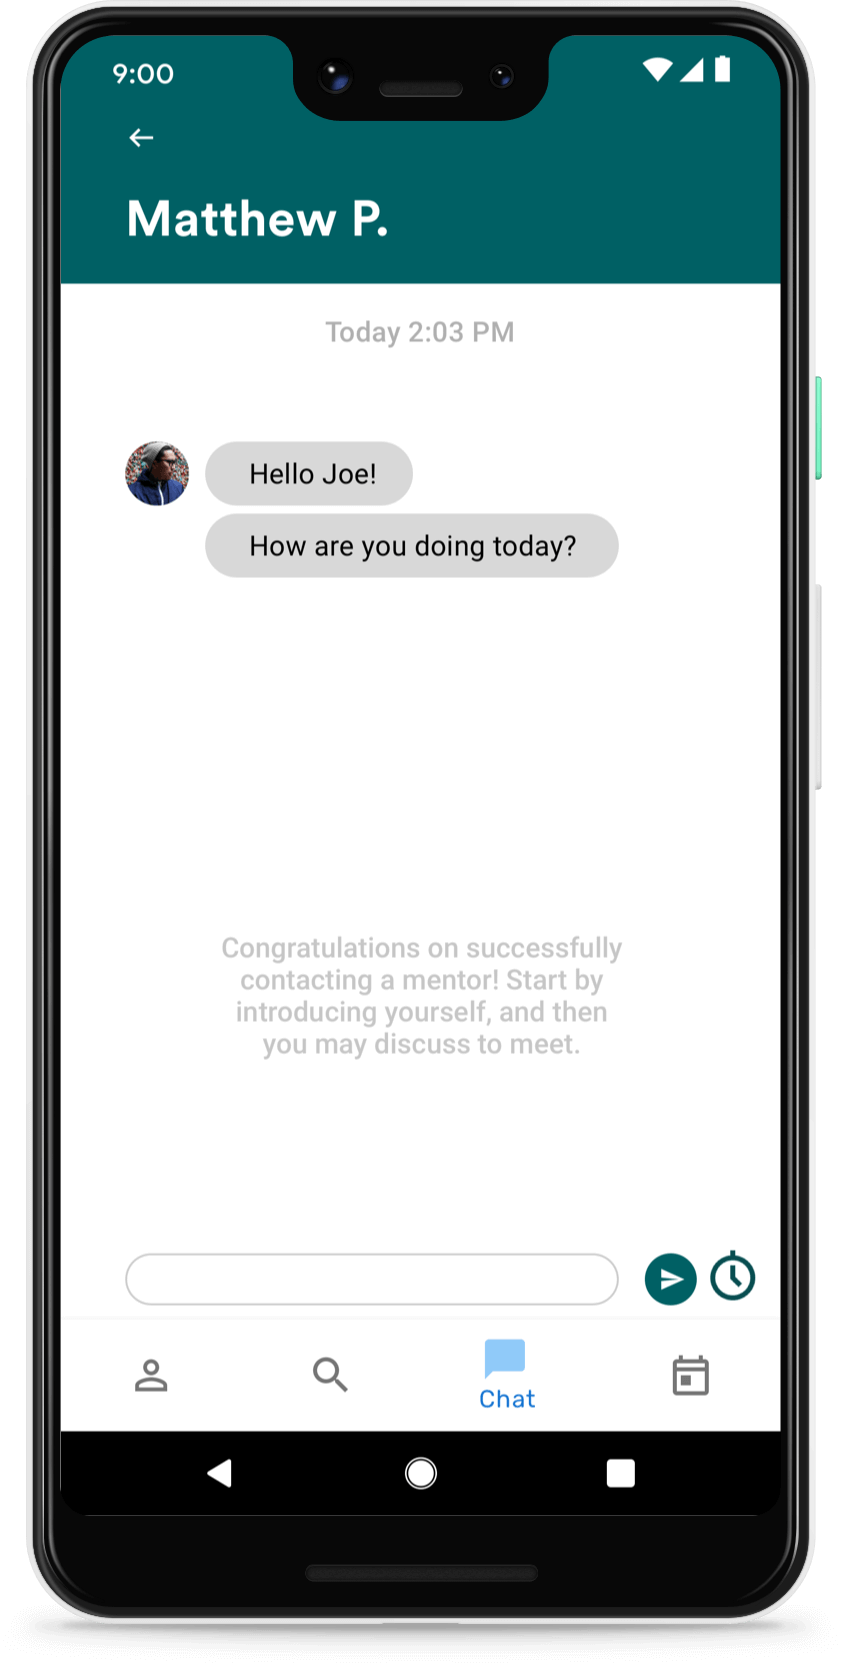
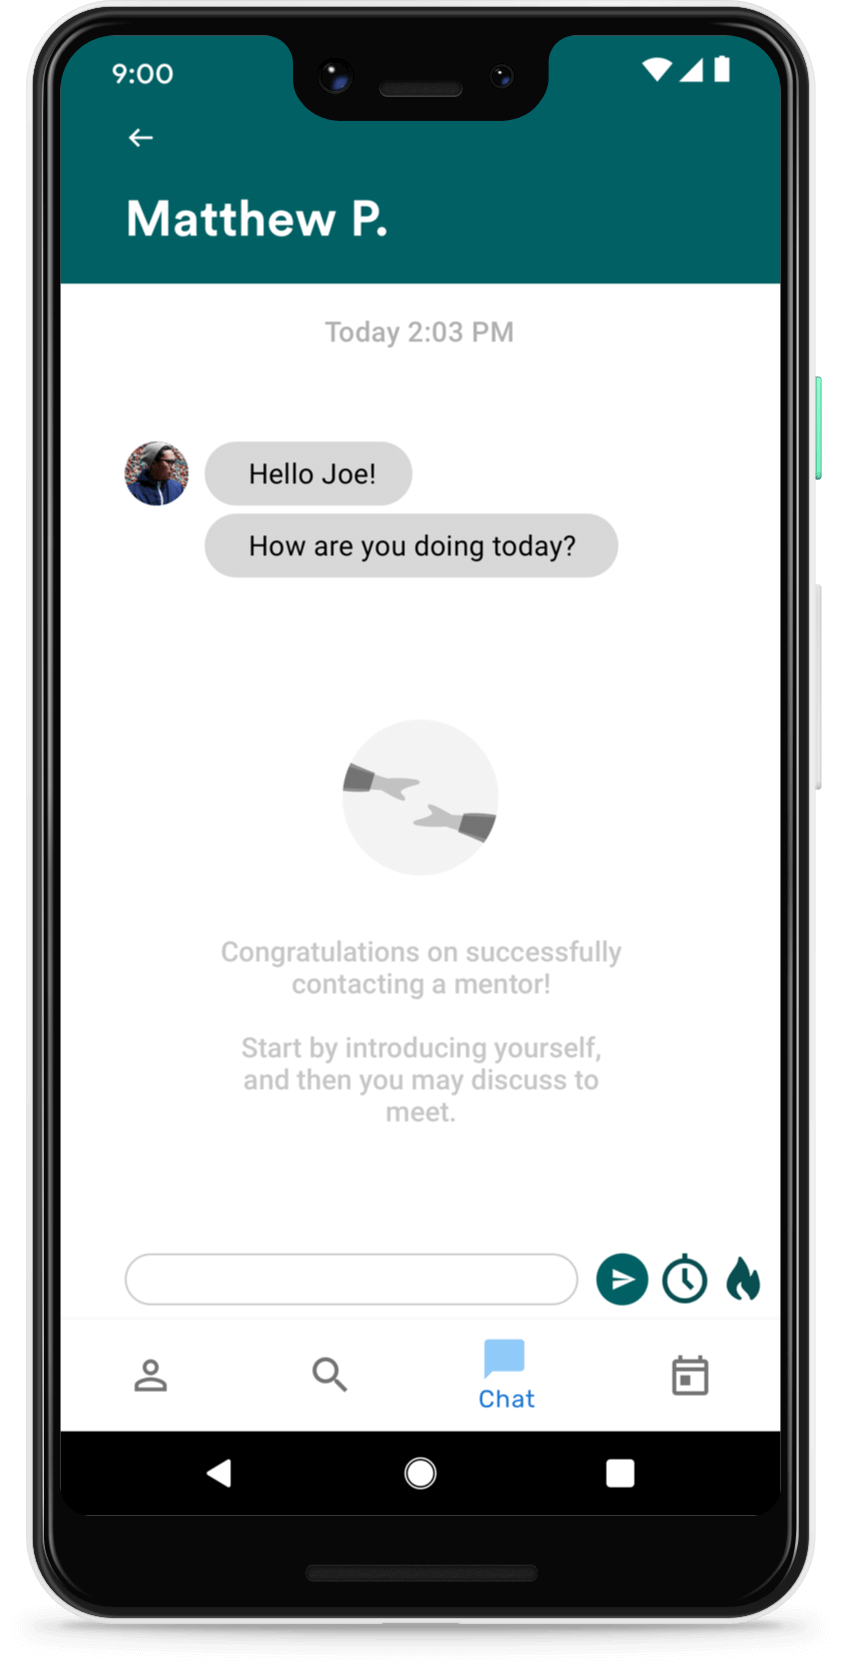
stuff added

diff --git a/portfolio/src/pages/project/midojo/index.html b/portfolio/src/pages/project/midojo/index.html
@@ -77,8 +77,8 @@ prev_name: Water Connection Transition
                 </div>
                 
                 <div class="large-4 large-offset-1 cell mockup-description align-self-middle">
-                    <p class="read bold">Home Page</p>
-                    <p class="read">The mentor and mentee can use the same app to get on MiDojo. The home screen has the standard login and signup options.</p>
+                    <p class="read bold">Welcome Page</p>
+                    <p class="read">The mentor and mentee can use the same app to get on MiDojo. The welcome screen has a standard login and signup options.</p>
                 </div>
                 
                 
@@ -104,7 +104,7 @@ prev_name: Water Connection Transition
                 
                 <div class="large-4 large-offset-1 cell mockup-description align-self-middle">
                     <p class="read bold">Select Role</p>
-                    <p class="read">User is asked if they want to mentor or look for mentors. The app experience from here will be different for the mentor and the mentee.</p>
+                    <p class="read">The user chooses if they want to mentor or look for mentors. The app experience from here will be different for the mentor and the mentee.</p>
                 </div>
                 
                 
@@ -133,8 +133,8 @@ prev_name: Water Connection Transition
                     
                     
                     <div class="large-4 large-offset-2 cell mockup-description align-self-middle">
-                        <p class="read bold">Time Commitment</p>
-                        <p class="read">Mentors can assist more than one mentee, but that would require a greater time commitment. Mentors can set aside a certain number of hours per week to assist their mentees. This would guarantee a good experience for both mentor and mentee.</p>
+                        <p class="read bold">Set your time commitment. More time ~ more mentees</p>
+                        <p class="read">Mentors can assist more than one mentee, but that would require a greater time commitment. Mentors can set aside a certain number of hours per week to engage their mentees. This would guarantee a good experience for both mentor and mentee.</p>
                     </div>
                     
                     <div class="large-3 large-offset-1 cell">
@@ -148,14 +148,14 @@ prev_name: Water Connection Transition
                     </div>
                     
                     <div class="large-4 large-offset-1 cell mockup-description align-self-middle">
-                        <p class="read bold">Ready to start helping</p>
+                        <p class="read bold">Ready to start helping! Spread the word</p>
                         <p class="read">An empty state screen tells the mentor that the setup has been done successfully. Mentorship is also a popular achievement to display on professional networks. This achievement can be shared on LinkedIn and Twitter directly from the app.</p>
                     </div>     
                     
                     
                     
                     <div class="large-4 large-offset-1 cell mockup-description align-self-middle">
-                        <p class="read bold">Relavent Information</p>
+                        <p class="read bold">Smart way to select your mentees</p>
                         <p class="read">Mentor receives requests from the mentees in the app inbox.</p>
                         <p class="read">Research revealed that mentors shouldn't be seen as long term friends/guru. Mentors are more willing to help, if they have a good idea of what they're getting into. The mentees are prompted to draft a clear request, and the same is highlighted to the mentor.</p>
                     </div>
@@ -166,6 +166,21 @@ prev_name: Water Connection Transition
                     <div class="large-3 cell">
                         <img src="{{root}}assets/img/midojo/8_mentee_profile.png" class="vert-margin-image">
                     </div> 
+                    
+                    
+                    <div class="large-3 large-offset-1 cell">
+                        <img src="{{root}}assets/img/midojo/17_mentor_chat.png" class="vert-margin-image">
+                    </div> 
+                    <div class="large-3 cell">
+                        <img src="{{root}}assets/img/midojo/16_appreciation.png" class="vert-margin-image">
+                    </div> 
+                    
+                    <div class="large-4 large-offset-1 cell mockup-description align-self-middle">
+                        <p class="read bold">Start helping & get "hooked"</p>
+                        <p class="read">Mentors get the pleasure of earning "fans" on the way. The mentor - mentee realtionship has the potential of forming a habit. Trigger (notification), Action (chat response), Variable Reward (mentee feedback in forms of personalized appreciation cards), Investement (selection process).</p>
+                    </div>
+                    
+                    
                 </div>
             </div>
         </div>
@@ -192,8 +207,8 @@ prev_name: Water Connection Transition
             
             
             <div class="large-4 large-offset-2 cell mockup-description align-self-middle">
-                <p class="read bold">Relavent Results. Quick!</p>
-                <p class="read">Mentorship can exist to further ones' career, fitness or hobbies. MiDojo encompasses all such mentors. A filter option then allows the mentee to focus on the tasks they need assistance with at the moment, and choose the relavent mentors. The filter is used to narrow the search result to a certain extent. It is not designed to be very specific, as that can lead to missed opportunities.</p>
+                <p class="read bold">Relevant Results. Quick!</p>
+                <p class="read">Mentorship can exist to further ones' career, fitness or hobbies. MiDojo encompasses all such mentors. A filter option then allows the mentee to focus on the tasks they need assistance with at the moment, and choose the relevant mentors. The filter is used to narrow the search result to a certain extent. It is not designed to be very specific, as that can lead to missed opportunities.</p>
             </div>
             
             <div class="large-3 large-offset-1 cell">
@@ -207,14 +222,14 @@ prev_name: Water Connection Transition
             
             <div class="large-4 large-offset-1 cell mockup-description align-self-middle">
                 <p class="read bold">Discover the future you</p>
-                <p class="read">Mentor profiles allows mentees to find mentors with similar interests. The mentor profile is a snapshot of their personality. The mentor can be contacted from the </p>
+                <p class="read">Mentor profiles allow mentees to find mentors with similar interests. The mentor profile is a snapshot of their personality. The mentor can be contacted from the </p>
             </div>
             
             
             
             <div class="large-4 large-offset-2 cell mockup-description align-self-middle">
                 <p class="read bold">Personalized requests</p>
-                <p class="read">Mentors can be picky about whom they would want to work with. Mentors love it when the mentees can reap benefits from their advice. To help mentees aprroach the mentors effectively, a set of questions are listed to gain the mentor's trust. The level of effort introduced here, makes sure that mentees do not approach many mentors at once.</p>
+                <p class="read">Mentors can be picky about whom they would want to work with. Mentors love it when the mentees can reap benefits from their advice. To help mentees approach the mentors effectively, a set of questions are listed to gain the mentor's trust. The level of effort introduced here, makes sure that mentees do not approach many mentors at once.</p>
             </div>
             
             <div class="large-3 large-offset-1 cell">
@@ -232,11 +247,11 @@ prev_name: Water Connection Transition
             <div class="large-4 large-offset-1 cell mockup-description align-self-middle">
                 <p class="read bold">First Chat</p>
                 <p class="read">This is the first chat between two strangers! To make the first chat a bit comfortable, suggested topics are mentioned as help text. The two are prompted to introduce themselves, discuss their interests and plan a meeting.</p>
-                <p class="read">While it isn't technologically complex to suggest meeting place and meeting times based on GPS information and calendar data, it is technologically complex to measure people's intentions. If the mentee is highly motivated, they may travel great distance or make time to meet the mentor.</p>
+                <p class="read">While it isn't technologically complex to suggest a meeting place and meeting times based on GPS information and calendar data, it is technologically complex to measure people's intentions. If the mentee is highly motivated, they may travel a great distance or make time to meet the mentor.</p>
             </div>
             
             <div class="large-8 large-offset-2 cell">
-                <h2 class="name">The Research & The Rationale</h2>
+                <h2 class="name">The Research</h2>
             </div>
             
             <div class="large-offset-2 large-8 cell">
@@ -263,33 +278,164 @@ prev_name: Water Connection Transition
                 </figure>
             </div>
             <div class="large-4 cell">
-                    <figure class="article-image">
-                        <img src="{{root}}assets/img/midojo/notes4.png" class="">
-                    </figure>
-                </div>
-
+                <figure class="article-image">
+                    <img src="{{root}}assets/img/midojo/notes4.png" class="">
+                </figure>
+            </div>
+            
             <div class="large-offset-2 large-8 cell">
                 <p class="read bold">Primary Research</p>
-                <p class="read">To gain some first hand knowledge on this, I contacted one senior UX Designer and two junior designers. Some of the finding/interesting quotes:</p>
-
-                <p class="read">Mentor: A Chief Design Officer with 10+ years of experience</p>
-                <ul>
+                <p class="read">To gain some first-hand knowledge on this, I contacted one senior UX Designer and two junior designers. Some of the finding/interesting quotes:</p>
+            </div>
+            
+            
+            <div class="large-5 large-offset-1 cell">
+                <p class="read bold">Mentor: A Chief Design Officer with 10+ years of experience</p>
+                <ul class="small-points">
                     <li><p class="read">"It’s my way of giving back to the community. I remember my struggle when I was working as a visual designer."</p></li>
                     <li><p class="read">"Some companies have one or a few designers. Mentorship can help the individual grow in such cases."</p></li>
-                    <li><p class="read">"Many designers approached me via linkedIn for specific problems …. We contacted just over email."</p></li>
+                    <li><p class="read">"Many designers approached me via LinkedIn for specific problems …. We contacted just over email."</p></li>
                     <li><p class="read">".. have met people face to face also .."</p></li>
                     <li><p class="read">"my colleagues told me that they had worked for this amazing designer at xxx company, and I reached out to him via emails for some questions."</p></li>
                 </ul>
-
-                <p class="read">Mentee: A design student who met her mentor at her workplace</p>
-                <ul>
+            </div>
+            
+            <div class="large-5 cell">
+                <p class="read bold">Mentee: A design student who met her mentor at her workplace</p>
+                <ul class="small-points">    
                     <li><p class="read">"We had a formal mentorship program. But that was only on paper. All the interns interacted more with others."</p></li>
                     <li><p class="read">"My shared several good moments. We talked about work, our backgrounds, how goal oriented she was. How she prepared for design thinking workshops. …. She’s a giver, she’s willing to share experience …. She has a good impression of me."</p></li>
                     <li><p class="read">"I learnt a lot from her, looking at her hard work, her dedication, she was a role model"</p></li>
                     <li><p class="read">On being asked if they’re still in touch: “I’m always willing to keep in touch. But I worry that she’s too busy. She may think that I am interested in a job opportunity there.”</p></li>
                     <li><p class="read">On being asked what got the mentor interested in her: “My prof put in a good word. We also had the same education, so that got her interested.”</p></li>
                 </ul>
+            </div>
+            
+            <div class="large-8 large-offset-2 cell">
+                <h2 class="name">Key Findings</h2>
+            </div>
+            
+            <div class="large-offset-2 large-8 cell">
+                <p class="read bold">What drives a Mentor?</p>
+                <ul>
+                    <li><p class="read">"Do unto others as you would have them do unto you." Mentors need not be expert in their field, they can also be a few years senior to the mentee. It is possible that they might be seeking mentorship themselves. Mentorship then, is a way to give back to the community.</p></li>
+                    <li><p class="read">Mentors like being seen as stars or role models, and get some fan mail! It is a positive reinforcement of their knowledge.</p></li>
+                    <li><p class="read">When mentorship is not seen as a life-long commitment to coach someone, mentors are willing to help. It is seen as a simple act of kindness which gives personal gratification.</p></li>
+                </ul>
                 
+                <p class="read bold">What drives a Mentee?</p>
+                <p class="read">According to Maslow’s hierarchy of needs, self-actualization is a high form of motivation, where an individual strives to be the best, and achieve their full potential. The opinions of others don’t matter much. An ideal mentee has the following characteristics for a positive mentorship experience:</p>
+                <ul>
+                    <li><p class="read"> <span class="bold">Clear needs:</span> Has a good idea about their goals. They do not need complete a hand holding.</p></li>
+                    <li><p class="read"><span class="bold">Deliver consistently:</span> One way to show the mentor that they’re invested in the relationship is to show that their advice is taken seriously.</p></li>
+                    <li><p class="read"><span class="bold">Positive attitude:</span> Mentors appreciate when the mentee has a positive attitude towards the work they’re doing. The relationship might not be thick enough to share sorrows.</p></li>
+                </ul>
+            </div>
+            
+            <div class="large-8 large-offset-2 cell">
+                <h2 class="name">Synthesis</h2>
+            </div>
+            
+            <div class="large-offset-2 large-8 cell">
+                <p class="read">I used the following methods to gain a better understanding of the information I got from the research</p>
+                
+                <p class="read bold">From To table</p>
+                <p class="read">Helps formulate goals/requiremnts for the solution.</p>
+                
+                <table>
+                    <thead>
+                        <tr>
+                            <th>-</th>
+                            <th>From</th>
+                            <th>To</th>
+                            <th>Instrument</th>
+                        </tr>
+                    </thead>
+                    <tbody>
+                        <tr>
+                            <td>Discovery</td>
+                            <td>People meet mentors at events, or work settings.</td>
+                            <td>Seeking mentor can be structures and easier to allow wider range of people to use it.</td>
+                            <td>List possible mentors, mentees witd</td>
+                        </tr>
+                        <tr>
+                            <td>Time commitment</td>
+                            <td>Uncertain, long meetings.</td>
+                            <td>Meetings witd goals, agenda.</td>
+                            <td>Chart availability, schedule goals</td>
+                        </tr>
+                        <tr>
+                            <td>Confidence to ask for help</td>
+                            <td>Shame/fear when asking for help. Loneliness, confusion.</td>
+                            <td>Gain confidence by being in a community, where it is normal to ask for help.</td>
+                            <td>Use several instruments to normalize seeking help.</td>
+                        </tr>
+                        <tr>
+                            <td>Selecting mentors</td>
+                            <td>Searching on Linkedin for hours. tdey don’t have information regarding time availability etc.</td>
+                            <td>Structured data to fill, focused towards</td>
+                            <td>List useful meta data to find mentors.</td>
+                        </tr>
+                    </tbody>
+                </table>
+                
+                
+            </div>
+            
+            <div class="large-8 large-offset-2 cell">
+                <p class="read bold">Love letter & Breakup letter</p>
+                <p class="read">I wrote a love letter and a breakup letter to my application from the perspective of the mentor and mentee. This helped me prioritize the requiremnts.</p>
+            </div>
+            
+            <div class="large-4 cell large-offset-2">
+                
+                <figure class="article-image">
+                    <img src="{{root}}assets/img/midojo/ll1.png" class="">
+                </figure>
+            </div>
+            <div class="large-4 cell">
+                <figure class="article-image">
+                    <img src="{{root}}assets/img/midojo/ll2.png" class="">
+                </figure>
+            </div>
+            
+            <div class="large-8 large-offset-2 cell">
+                <h2 class="name">Before the mockups</h2>
+                <p class="read bold">Storyboarding</p>
+            </div>
+            
+            <div class="large-4 large-offset-2 cell">
+                <figure class="article-image">
+                    <img src="{{root}}assets/img/midojo/storyboard1.JPG" class="">
+                </figure>
+            </div>
+            <div class="large-4 cell">
+                <figure class="article-image">
+                    <img src="{{root}}assets/img/midojo/storyboard2.JPG"  class=""> 
+                </figure>
+            </div>
+            
+            <div class="large-8 large-offset-2 cell">
+                <p class="read bold">User Flows</p>
+            </div>
+            
+            <div class="large-4 cell">
+                <figure class="article-image center">
+                    <figcaption>Onboarding</figcaption>
+                    <img src="{{root}}assets/img/midojo/userflow-first-time-onboarding.png" class="">
+                </figure>
+            </div>
+            <div class="large-4 cell">
+                <figure class="article-image center">
+                    <figcaption>Mentor selects mentees</figcaption>
+                    <img src="{{root}}assets/img/midojo/userflow-mentor-invite.png"  class=""> 
+                </figure>
+            </div>
+            <div class="large-4 cell">
+                <figure class="article-image center">
+                    <figcaption>Scheduling meetings and mentoring</figcaption>
+                    <img src="{{root}}assets/img/midojo/userflow-meeting.png"  class=""> 
+                </figure>
             </div>
             
         </div>

diff --git a/portfolio/src/layouts/default.html b/portfolio/src/layouts/default.html
@@ -35,15 +35,16 @@
     <meta name="msapplication-square150x150logo" content="mstile-150x150.png" />
     <meta name="msapplication-wide310x150logo" content="mstile-310x150.png" />
     <meta name="msapplication-square310x310logo" content="mstile-310x310.png" />
-<!-- Global site tag (gtag.js) - Google Analytics -->
-<script async src="https://www.googletagmanager.com/gtag/js?id=UA-136944631-1"></script>
-<script>
-  window.dataLayer = window.dataLayer || [];
-  function gtag(){dataLayer.push(arguments);}
-  gtag('js', new Date());
+    <!-- Global site tag (gtag.js) - Google Analytics -->
+    <script async src="https://www.googletagmanager.com/gtag/js?id=UA-136944631-1"></script>
+    <script>
+      window.dataLayer = window.dataLayer || [];
+      function gtag(){dataLayer.push(arguments);}
+      gtag('js', new Date());
+      gtag('config', 'UA-136944631-1');
+    </script>
 
-  gtag('config', 'UA-136944631-1');
-</script>
+
 
   </head>
   <body>

diff --git a/portfolio/src/assets/scss/app.scss b/portfolio/src/assets/scss/app.scss
@@ -40,7 +40,7 @@
 // @include foundation-sticky;
 // @include foundation-reveal;
 // @include foundation-switch;
-// @include foundation-table;
+@include foundation-table;
 // @include foundation-tabs;
 // @include foundation-thumbnail;
 // @include foundation-title-bar;

diff --git a/portfolio/src/assets/scss/_page.scss b/portfolio/src/assets/scss/_page.scss
@@ -344,6 +344,9 @@ figure.article-image {
 	figcaption.full {
 		margin-right: 0;
 	}
+	&.center {
+		text-align: center;
+	}
 }
 figure.right-inline {
 	float: right;

diff --git a/portfolio/src/assets/scss/_petty.scss b/portfolio/src/assets/scss/_petty.scss
@@ -279,6 +279,13 @@ figure.chapter-image.down-30 {
 	text-decoration: none;
 }
 
+ul.small-points {
+	font-size: 15px;
+	li>p {
+		font-size: 15px;
+	}
+}
+
 
 
 
